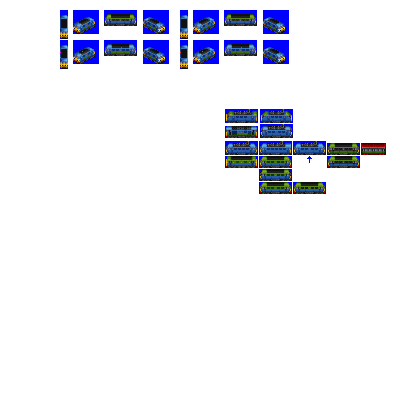
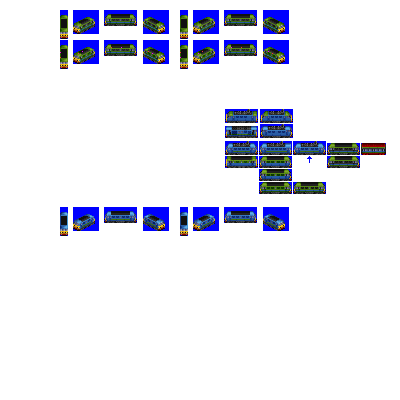
Change: revised sprites complete for Screamer

diff --git a/src/vehicles/screamer.py b/src/vehicles/screamer.py
@@ -13,7 +13,7 @@ def main(roster):
                             gen=5,
                             pantograph_type='z-shaped-double',
                             intro_date_offset=3,   # introduce later than gen epoch by design
-                            sprites_complete=False)
+                            sprites_complete=True)
 
     consist.add_unit(type=ElectricEngineUnit,
                      weight=85,
